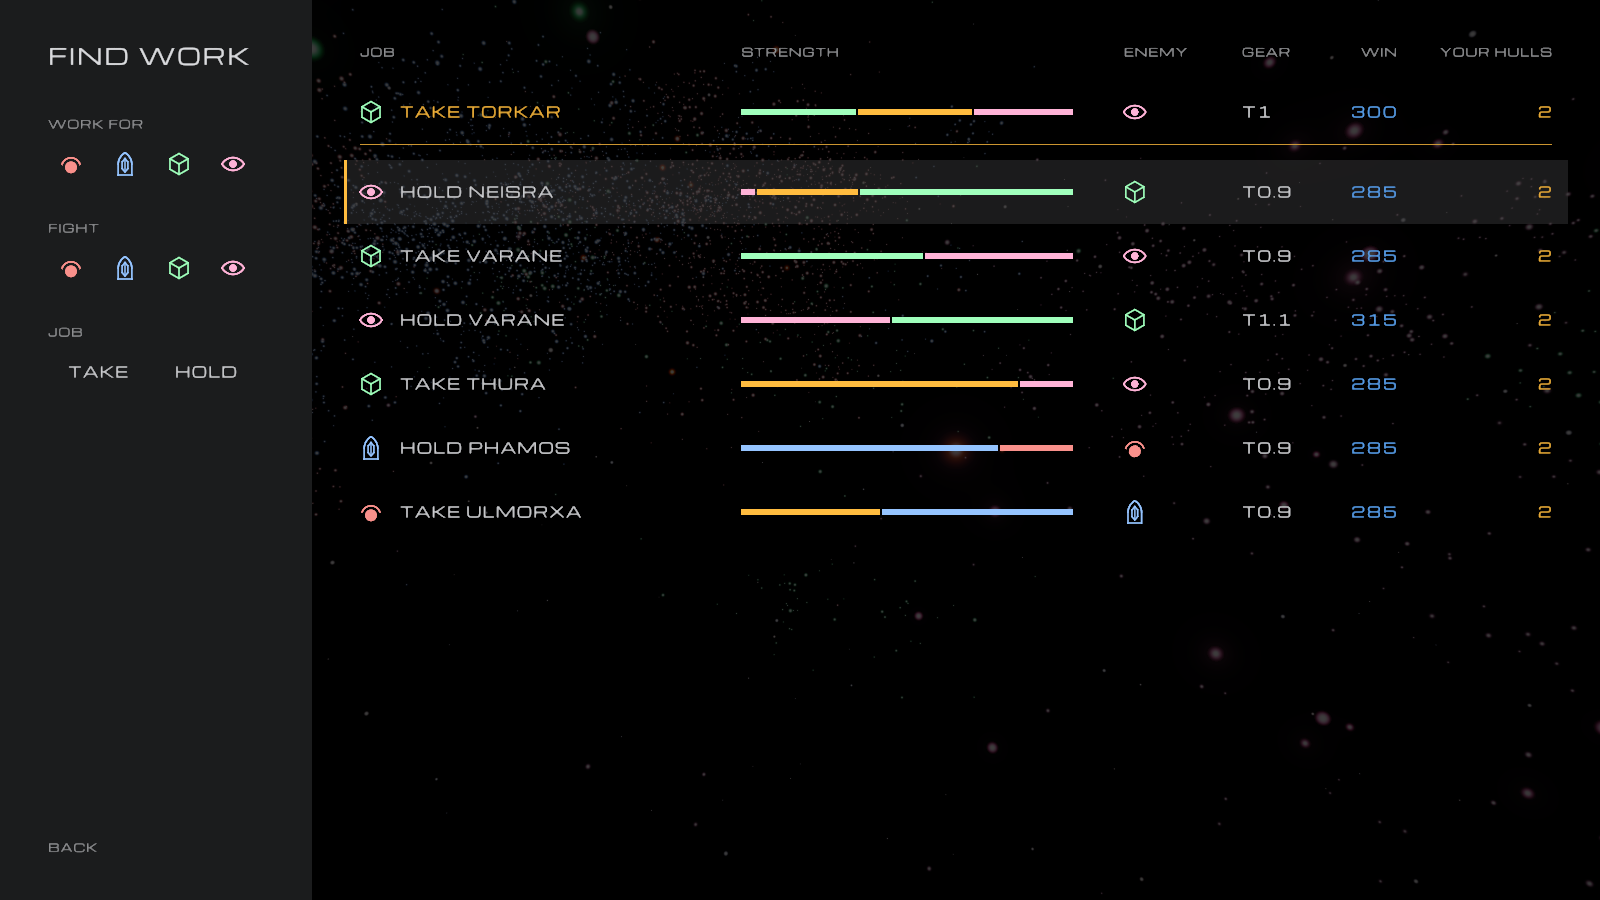
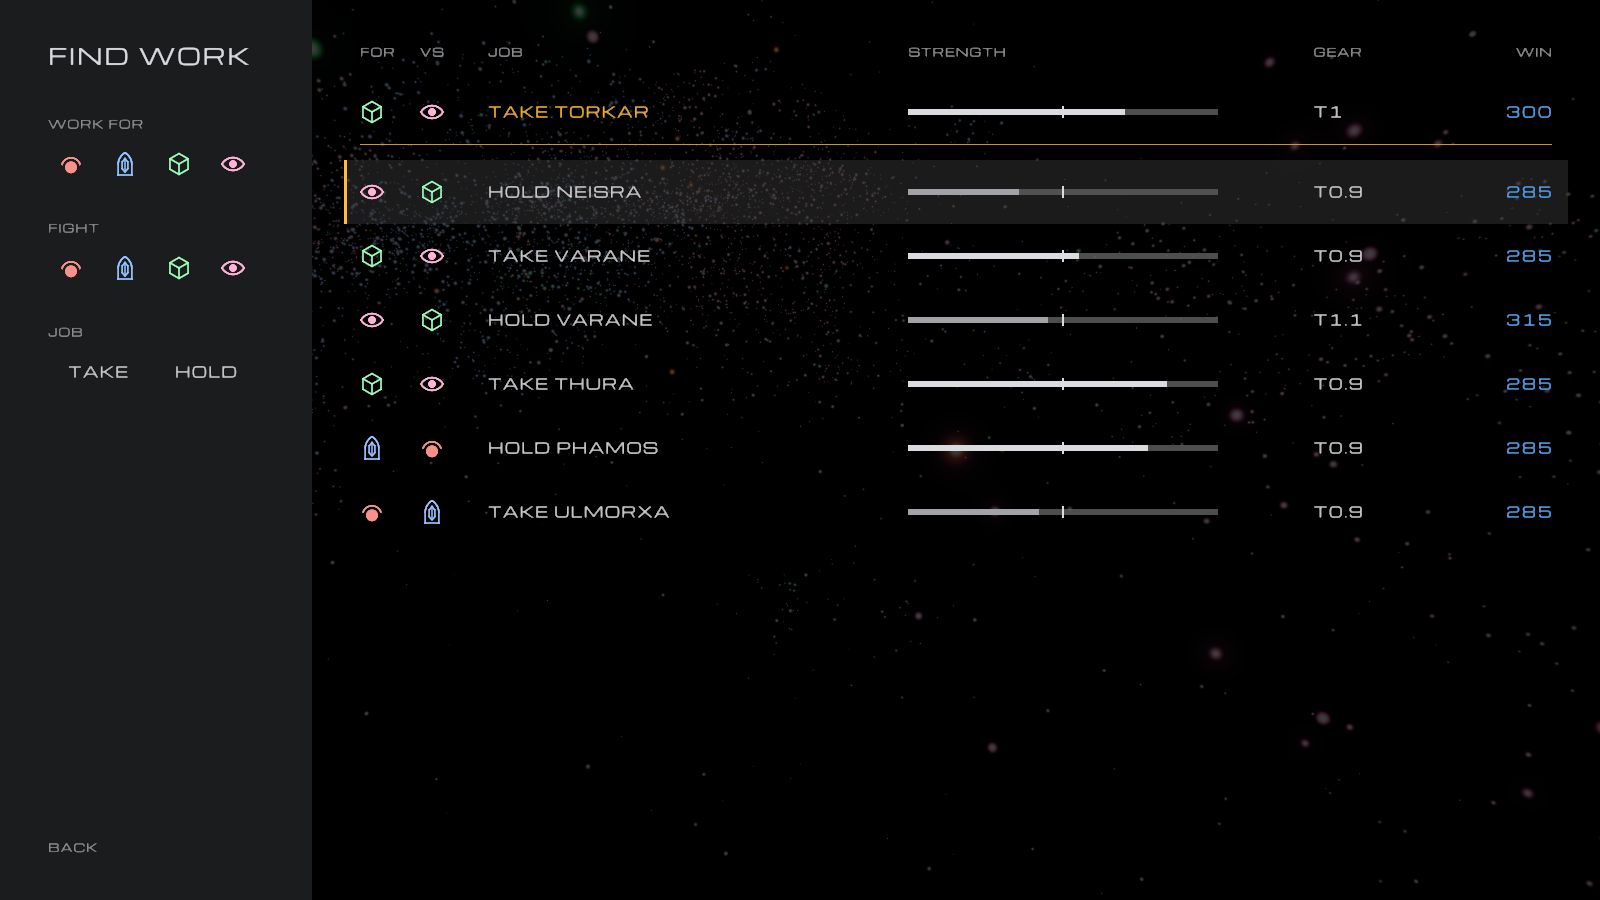
Board: one strength bar for every row, no hulls column; deal: no learning
Claude-Session: https://claude.ai/code/session_01MEmTqFXsPKRSwTWA17Ss4y

diff --git a/src/work_view.rs b/src/work_view.rs
@@ -1,22 +1,20 @@
 //! Finding work: the board, a table of the contracts on offer to compare and
 //! filter (`Board`), and the deal, one of them to take or not: your side's
-//! tanks facing the enemy's you'd get to take apart, what you'd gain, and
+//! tanks facing the enemy's, what you'd gain, and
 //! the contract you'd leave for it.
 
 use std::f32::consts::FRAC_PI_2;
 
 use glam::{Mat4, Quat, Vec2, Vec3, Vec4};
 
-use crate::economy::{Part, level_label, win_pay};
+use crate::economy::{level_label, win_pay};
 use crate::faction::Faction;
 use crate::galaxy::PEOPLES;
 use crate::galaxy::theater::Offer;
 use crate::garage::{self, Loadout};
 use crate::menu::{Hit, Nav};
-use crate::profile::Profile;
 use crate::render::mesh::{Instance, MeshId};
 use crate::render::{Atmosphere, Camera, PointLight, Scene};
-use crate::scene::project;
 use crate::sim::Tank;
 use crate::tank::TankArt;
 use crate::ui::design::{self, AMBER, BLUE, BODY, HEAD, MARGIN, SMALL, TEXT, TEXT_2, UNIT};
@@ -190,10 +188,9 @@ impl Board {
             hits.add(p, min, size, Hit::Sort(k));
         }
         let style = SMALL.colored(TEXT_2);
-        let at = Vec2::new(cols.enemy - 11.0, y);
-        p.text(at, "Enemy", &style, Align::Left);
-        p.text(Vec2::new(x0, y), "Job", &style, Align::Left);
-        p.text(Vec2::new(cols.hulls, y), "Your hulls", &style, Align::Right);
+        p.text(Vec2::new(x0, y), "For", &style, Align::Left);
+        p.text(Vec2::new(cols.enemy, y), "Vs", &style, Align::Center);
+        p.text(Vec2::new(cols.job, y), "Job", &style, Align::Left);
         y += UNIT * 4.0;
 
         // The contract you're on, to compare with.
@@ -201,7 +198,7 @@ impl Board {
             draw_row(p, &cols, y, mine, AMBER);
             y += ROW;
             let rule = with_alpha(AMBER, 0.6);
-            p.rect(Vec2::new(x0, y), Vec2::new(cols.hulls - x0, 1.0), rule);
+            p.rect(Vec2::new(x0, y), Vec2::new(cols.win - x0, 1.0), rule);
             y += UNIT * 2.0;
         }
         let listed = self.listed();
@@ -216,7 +213,7 @@ impl Board {
         let first = (picked + 1).saturating_sub(fit);
         for (i, o) in listed.iter().enumerate().skip(first).take(fit) {
             let min = Vec2::new(x0 - UNIT * 2.0, y);
-            let size = Vec2::new(cols.hulls - x0 + UNIT * 4.0, ROW);
+            let size = Vec2::new(cols.win - x0 + UNIT * 4.0, ROW);
             let on = i == picked;
             if on {
                 p.rect(min, size, with_alpha(TEXT, 0.014));
@@ -277,24 +274,24 @@ const ROW: f32 = UNIT * 8.0;
 
 /// Where the board's columns are.
 struct Columns {
+    side: f32,
+    enemy: f32,
     job: f32,
     bar: (f32, f32),
-    enemy: f32,
     gear: f32,
     win: f32,
-    hulls: f32,
 }
 
 impl Columns {
     fn new(x0: f32, x1: f32) -> Columns {
         let at = |k: f32| x0 + (x1 - x0) * k;
         Columns {
-            job: x0,
-            bar: (at(0.32), at(0.6)),
-            enemy: at(0.65),
-            gear: at(0.74),
-            win: at(0.87),
-            hulls: x1,
+            side: x0 + UNIT * 1.5,
+            enemy: x0 + UNIT * 9.0,
+            job: x0 + UNIT * 16.0,
+            bar: (at(0.46), at(0.72)),
+            gear: at(0.8),
+            win: x1,
         }
     }
 }
@@ -303,23 +300,31 @@ impl Columns {
 fn draw_row(p: &mut Painter, c: &Columns, y: f32, o: &Offer, color: Rgba) {
     let mid = y + ROW * 0.5;
     let top = mid - BODY.size * 0.5;
-    let side = Faction::side(o.side);
-    let at = Vec2::new(c.job + 11.0, mid);
-    emblem::emblem(p, side, at, 22.0, 1.4, side.ui());
-    let at = Vec2::new(c.job + UNIT * 5.0, top);
+    for (x, f) in [(c.side, o.side), (c.enemy, o.enemy)] {
+        let f = Faction::side(f);
+        emblem::emblem(p, f, Vec2::new(x, mid), 22.0, 1.4, f.ui());
+    }
+    let at = Vec2::new(c.job, top);
     p.text(at, &o.job(), &BODY.colored(color), Align::Left);
-    strength(p, o, Vec2::new(c.bar.0, mid - 3.0), c.bar.1 - c.bar.0, 6.0);
-    let enemy = Faction::side(o.enemy);
-    emblem::emblem(p, enemy, Vec2::new(c.enemy, mid), 22.0, 1.4, enemy.ui());
-    let gear = level_label(o.tier);
+    share(p, o, Vec2::new(c.bar.0, mid), c.bar.1 - c.bar.0);
     let at = Vec2::new(c.gear, top);
-    p.text(at, &gear, &BODY, Align::Left);
+    p.text(at, &level_label(o.tier), &BODY, Align::Left);
     let pay = win_pay(o.tier).to_string();
     let at = Vec2::new(c.win, top);
     p.text(at, &pay, &BODY.colored(BLUE), Align::Right);
-    let at = Vec2::new(c.hulls, top);
-    let own = o.own.to_string();
-    p.text(at, &own, &BODY.colored(AMBER), Align::Right);
+}
+
+/// Your side's share of the hulls, the same on every row whoever's in it:
+/// filled for yours, with a mark at even. `at` is its left end's middle.
+fn share(p: &mut Painter, o: &Offer, at: Vec2, w: f32) {
+    let h = 6.0;
+    let min = at - Vec2::Y * h * 0.5;
+    p.rect(min, Vec2::new(w, h), with_alpha(TEXT_2, 0.2));
+    let ahead = o.strength() >= 0.5;
+    let fill = if ahead { TEXT } else { TEXT_2 };
+    p.rect(min, Vec2::new(w * o.strength(), h), fill);
+    let mark = Vec2::new(at.x + w * 0.5 - 1.0, at.y - h);
+    p.rect(mark, Vec2::new(2.0, h * 2.0), TEXT);
 }
 
 /// How it's going: the side's hulls, its mercs' in amber, and the enemy's.
@@ -452,10 +457,8 @@ pub fn scene(art: &TankArt, base: &Tank, kit: Loadout, o: &Offer, time: f32, asp
 pub fn draw_deal(
     p: &mut Painter,
     hits: &mut Hits<Hit>,
-    profile: &Profile,
     o: Option<&Offer>,
     mine: Option<&Offer>,
-    time: f32,
     back_lit: bool,
     w: f32,
     h: f32,
@@ -500,43 +503,6 @@ pub fn draw_deal(
     p.text(at, &o.foes.to_string(), &names, Align::Right);
     y += UNIT * 3.0;
     strength(p, o, Vec2::new(x0, y), wide, UNIT);
-
-    // Under each enemy tank, what taking it apart would teach you.
-    let vp = camera(time, w / h).view_proj(w / h);
-    let mut seen: Vec<Part> = Vec::new();
-    for (kit, at) in stands(enemy) {
-        let Some((x, y)) = project(vp, at + Vec3::new(0.0, 0.0, 2.6), w, h) else {
-            continue;
-        };
-        let mut y = y + UNIT * 3.0;
-        if seen.is_empty() {
-            let style = SMALL.colored(TEXT_2);
-            let at = Vec2::new(x - UNIT * 10.0, y);
-            p.text(at, "Learn from wrecks", &style, Align::Left);
-        }
-        y += UNIT * 3.0;
-        for part in [Part::Hull(kit.0), Part::Turret(kit.1)] {
-            if seen.contains(&part) {
-                continue;
-            }
-            seen.push(part);
-            let half = UNIT * 10.0;
-            let at = Vec2::new(x - half, y);
-            p.text(at, part.name(), &SMALL, Align::Left);
-            let known = profile.known.of(part);
-            let owned = profile.owns(part);
-            let (text, color) = if owned {
-                (level_label(profile.known.cap(part)), AMBER)
-            } else {
-                (format!("{}%", (known * 100.0).min(99.0) as u32), TEXT_2)
-            };
-            let style = SMALL.colored(color);
-            p.text(Vec2::new(x + half, y), &text, &style, Align::Right);
-            let frac = if owned { 1.0 } else { known };
-            design::bar(p, Vec2::new(x - half, y + UNIT * 2.0), half * 2.0, frac);
-            y += UNIT * 4.0;
-        }
-    }
 
     // The trade: what you'd gain on the left, what you'd leave on the right.
     let top = h - MARGIN - UNIT * 13.0;
@@ -645,7 +611,6 @@ mod tests {
             Some(offer(40, 1, 2)),
         );
         b.scroll(29);
-        let profile = Profile::in_memory();
         for (w, h) in [(1600.0, 900.0), (1200.0, 900.0), (2100.0, 900.0)] {
             for side in 0..4 {
                 let (mut p, mut q) = (Painter::new(1.0), Painter::new(1.0));
@@ -654,17 +619,7 @@ mod tests {
                 assert!(hits.center_of(Hit::Row(29)).is_some(), "the pick's in view");
                 let o = offer(1, 0, side);
                 let mine = b.mine.as_ref();
-                draw_deal(
-                    &mut q,
-                    &mut hits,
-                    &profile,
-                    Some(&o),
-                    mine,
-                    3.0,
-                    false,
-                    w,
-                    h,
-                );
+                draw_deal(&mut q, &mut hits, Some(&o), mine, false, w, h);
                 assert!(hits.center_of(Hit::Deploy).is_some());
                 assert!(p.finish().iter().chain(&q.finish()).all(|v| {
                     let [x, y] = v.pos;

diff --git a/src/menu.rs b/src/menu.rs
@@ -784,8 +784,7 @@ impl Menu {
             } else {
                 let o = self.board.offer(self.previewing);
                 let mine = self.board.mine.as_ref();
-                let (time, lit) = (self.clock, self.back_lit);
-                work_view::draw_deal(&mut p, &mut hits, profile, o, mine, time, lit, w, h);
+                work_view::draw_deal(&mut p, &mut hits, o, mine, self.back_lit, w, h);
             }
             return Layer {
                 verts: fade(p.finish(), alpha),

diff --git a/README.md b/README.md
@@ -71,7 +71,7 @@ Menus and the garage list their own keys on screen.
 | Part | What it is | Code |
 |---|---|---|
 | Game loop | Contract screen → deploy (the map loads on a worker thread) → battle → debrief → the tick's summary → the contract screen. There, in order: how your contract ended, if it did; waiting for work while there's none (the war ticks on screen); the ship's move to the next contract; the next contract. Leaving a battle from the pause menu lets it play out without you, then goes on to its debrief. | `src/app.rs`, `src/menu.rs` |
-| Menus | Main menu (over a slowly turning view of the galaxy from your ship), employer and mission select, settings and pause, drawn in the hairline style. The contract page shows the system you're fighting for in 3D, your side's fights there to pick from, the enemy's gear, what a win pays and your hulls left; DEPLOY goes straight in. Find work is a table of the contracts on offer, filtered by who you'd work for, who you'd fight and the job; one opened is the deal: the two sides' tanks facing off, what you'd learn from wrecks, and the contract you'd leave. The attackers' fleets are in orbit and the world glows its holder's color, so whose side you're on is whose fleet you fly with, or whose world your company's on. | `src/menu.rs`, `src/cluster_view.rs`, `src/work_view.rs`, `src/ui/design.rs`, `src/app.rs` |
+| Menus | Main menu (over a slowly turning view of the galaxy from your ship), employer and mission select, settings and pause, drawn in the hairline style. The contract page shows the system you're fighting for in 3D, your side's fights there to pick from, the enemy's gear, what a win pays and your hulls left; DEPLOY goes straight in. Find work is a table of the contracts on offer, filtered by who you'd work for, who you'd fight and the job; one opened is the deal: the two sides' tanks facing off, the pay, and the contract you'd leave. The attackers' fleets are in orbit and the world glows its holder's color, so whose side you're on is whose fleet you fly with, or whose world your company's on. | `src/menu.rs`, `src/cluster_view.rs`, `src/work_view.rs`, `src/ui/design.rs`, `src/app.rs` |
 | Missions | Dead Town is Attrition on Saltmarket, Holy Ground is Hold on the Sanctum, Kept Fire is Attrition for the Ithessar on the Kiln, Scrap Metal is Attrition for the Uthenn in the Foundry, Deep Vein is Attrition for the Ithessar against the Resonant in a crystal mine (generated, a new one each sortie: a mine dug into a cliff, on levels stacked over each other: a mine under the mesa's top, a rail bridge out of the adit over a dry wash; in the mine an Ithessar plasma borer holds its beam on the rock, and driving into it destroys you). Stolen Flag is Raid in a crystal mine, for either side. Any of a map's sides can hire you: you pick the employer, then one of their contracts. Most contracts name a schematic, stolen from a side you fight there, as the prize for a win. `--contract` and `--employer` pick them outside the menu. | `src/mission.rs` |
 | Pilot profile | Renown with the Company (and the numbered, titled rank it adds up to), crystals, stolen schematics and their upgrades, and the kit you deploy in. Autosaved as JSON in the OS data directory (`~/.local/share/tankit/` on Linux); delete it to start over. | `src/profile.rs` |
 | Deathmatch | Timed rounds, every tank for itself. Covers the weapons (shells, bouncing plasma, the long-range beam that overheats on the tank's thermal mass, flame), kills, renown with the Company (paid on the kill), the Vigil running on as a husk after it's broken, respawns (10 s dead, then a spawn shield), and vertical auto-aim. | `src/combat.rs` |
